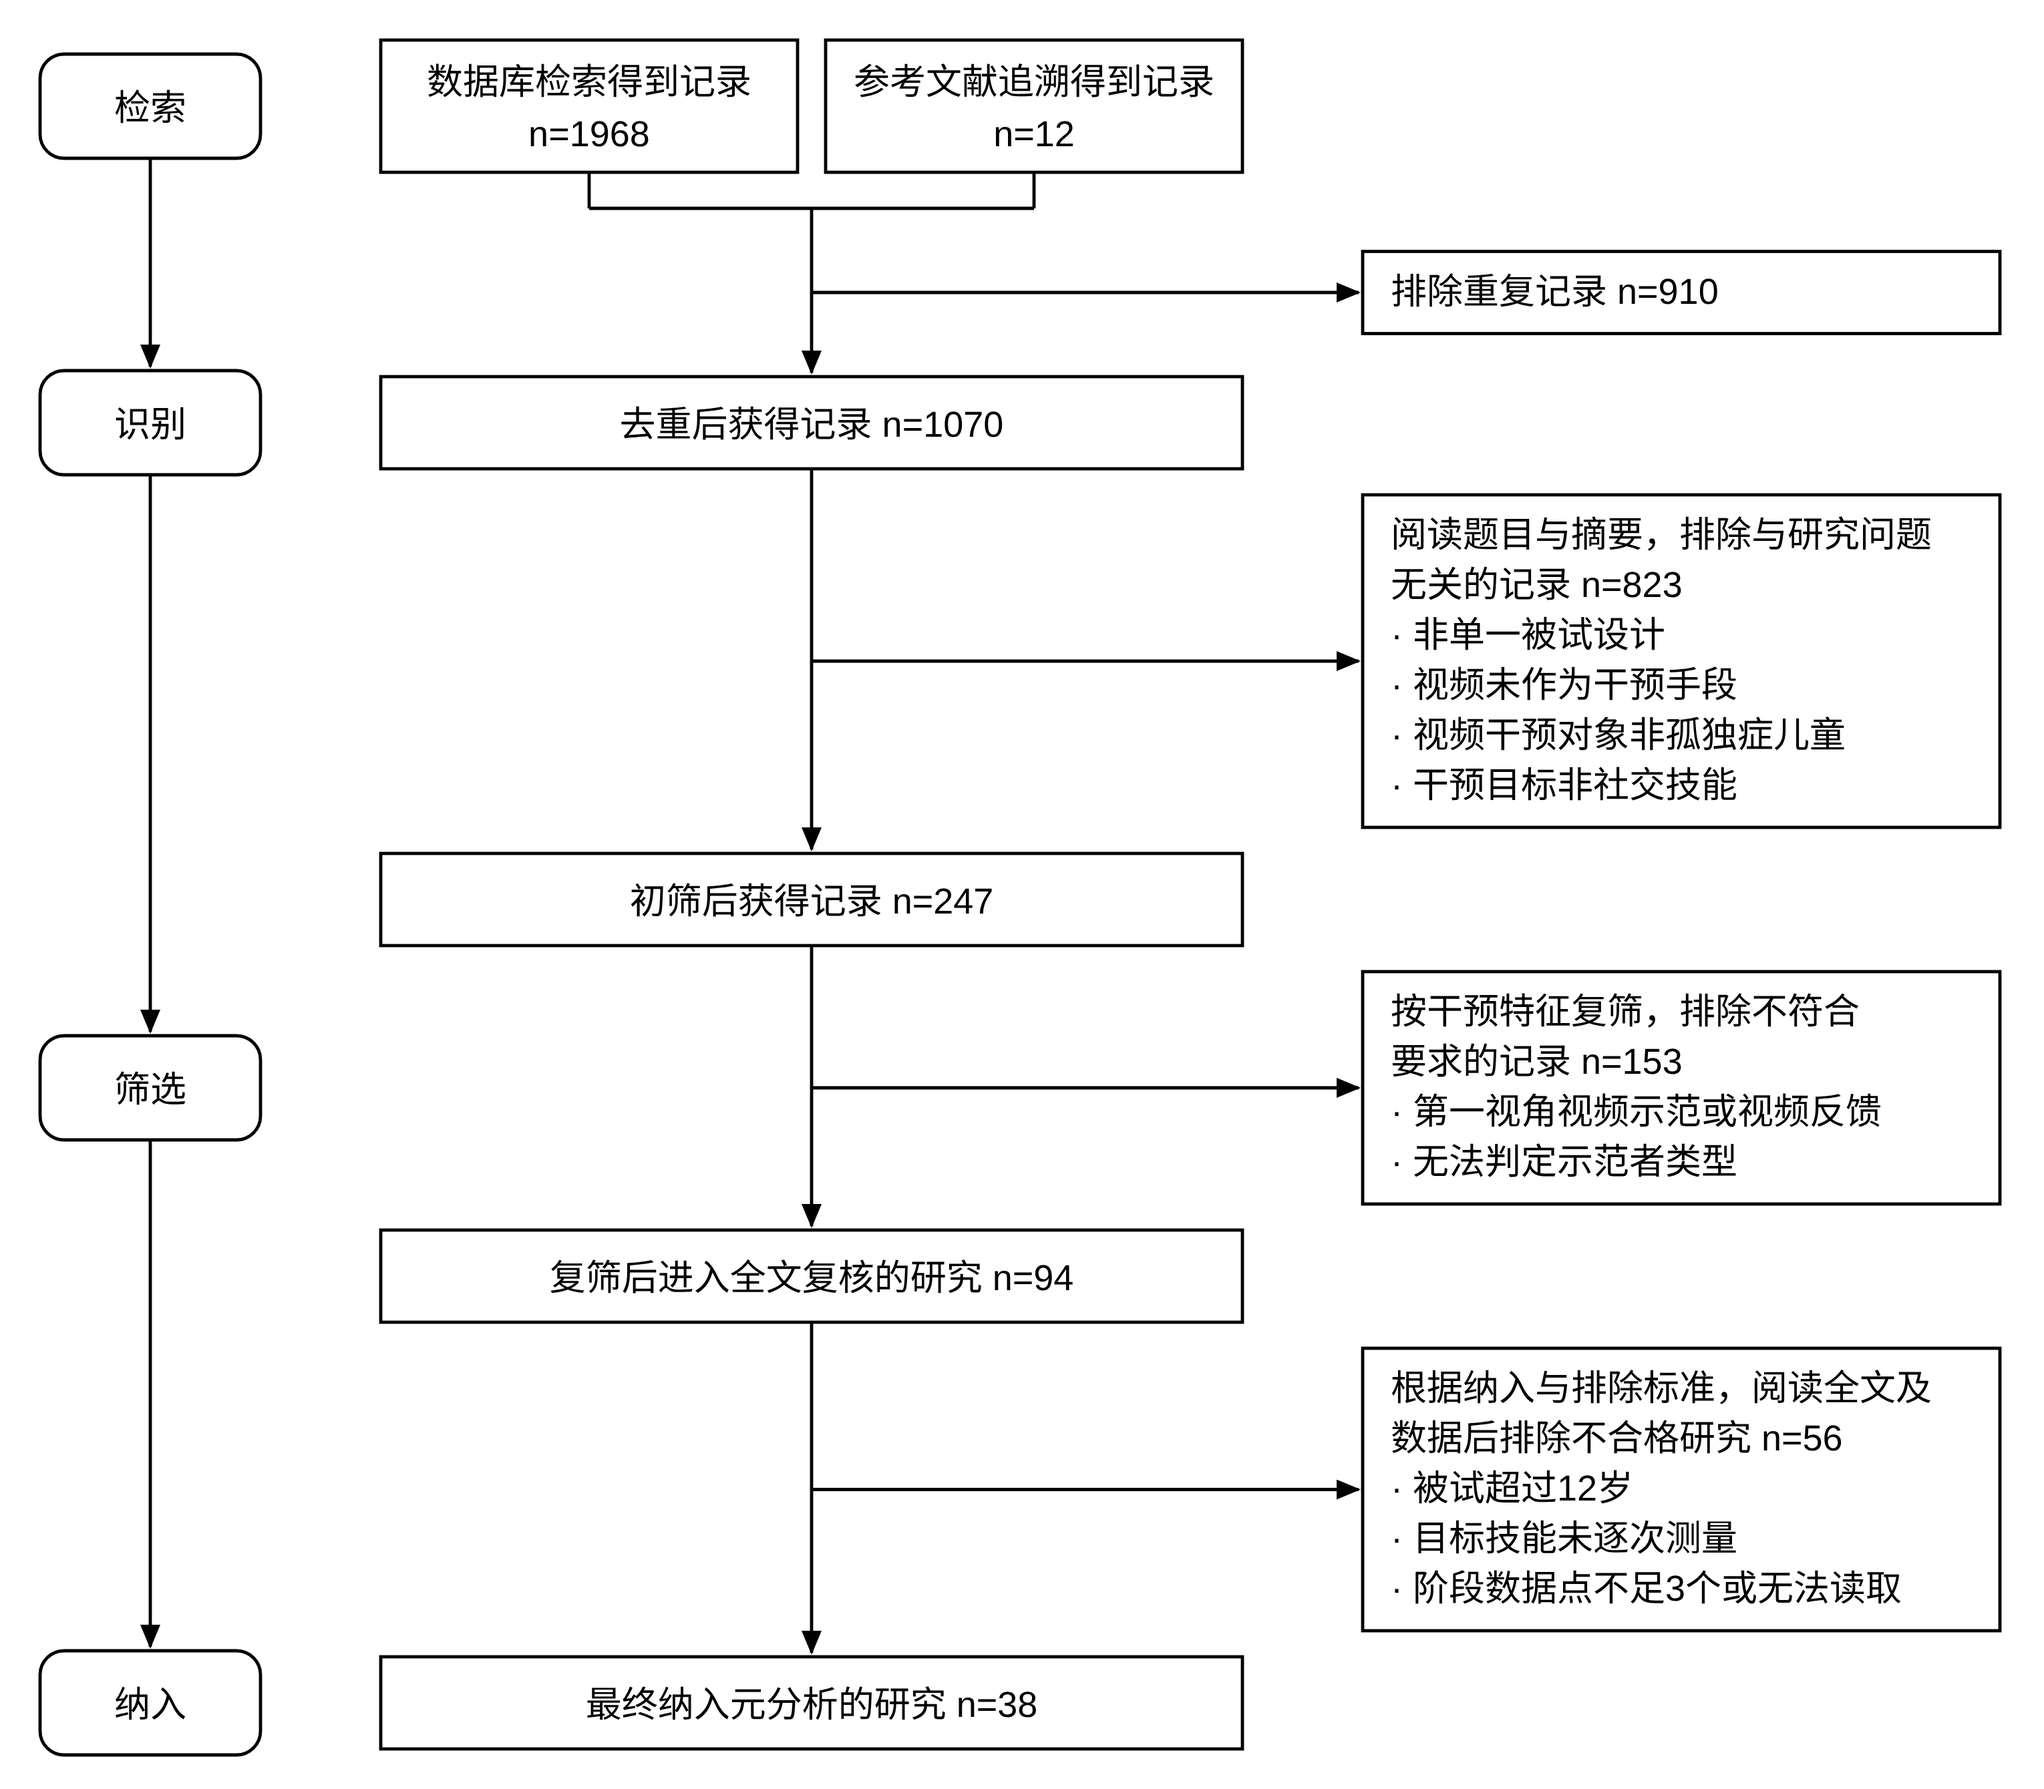
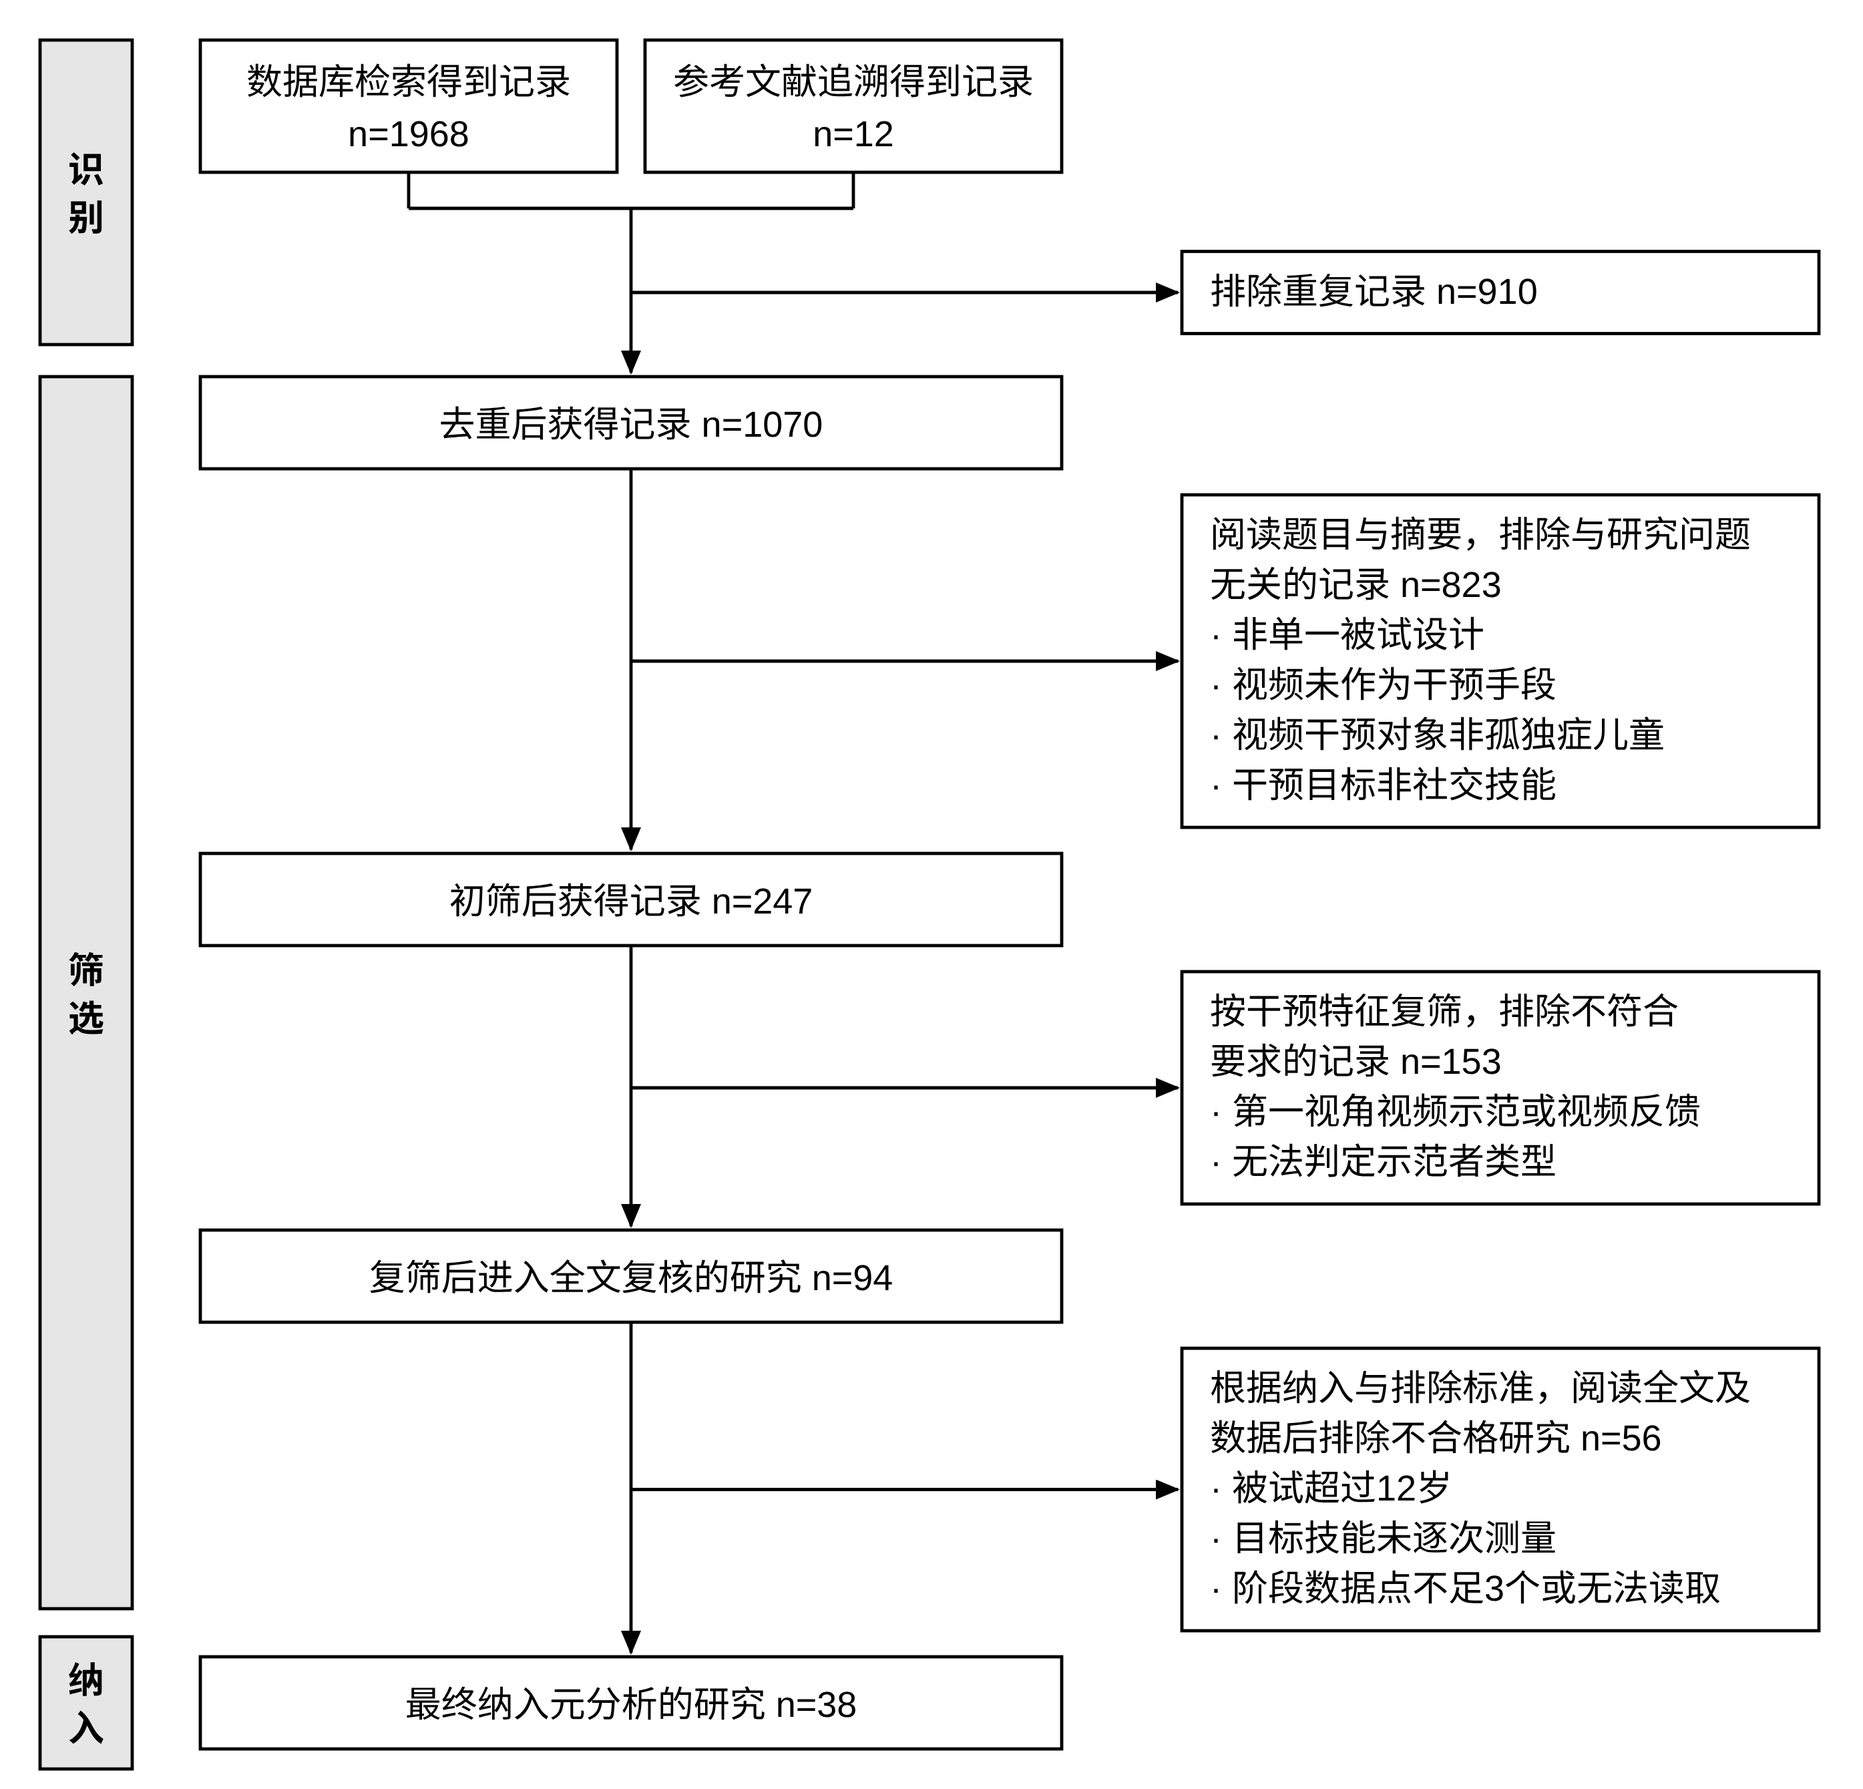
Use gray vertical stage bars on flowchart
Claude-Session: https://claude.ai/code/session_01EqCS8pdH5dXcLV7bqheSma

diff --git a/文献筛选流程图/流程图.html b/文献筛选流程图/流程图.html
@@ -1,69 +1,69 @@
 <!doctype html>
 <html><head><meta charset="utf-8"><title>文献筛选流程图</title><style>body{margin:0;background:#fff}</style></head><body>
-<svg id="fig" width="1020" height="893" viewBox="0 0 1020 893" xmlns="http://www.w3.org/2000/svg">
+<svg id="fig" width="930" height="893" viewBox="0 0 930 893" xmlns="http://www.w3.org/2000/svg">
 <style>
   text{font-family:Arial,"Liberation Sans","SimHei","黑体","Microsoft YaHei","Noto Sans CJK SC",sans-serif;font-size:18px;fill:#000}
   .box{fill:#fff;stroke:#000;stroke-width:1.6}
+  rect.stage{fill:#e6e6e6;stroke:#000;stroke-width:1.6}
+  text.stage{font-weight:bold}
   .ln,.ln0{stroke:#000;stroke-width:1.6;fill:none}
   .ln{marker-end:url(#ar)}
 </style>
 <defs><marker id="ar" markerUnits="userSpaceOnUse" markerWidth="12" markerHeight="10" refX="11" refY="5" orient="auto"><path d="M0,0 L12,5 L0,10 z" fill="#000"/></marker></defs>
-<rect width="1020" height="893" fill="#fff"/>
-<rect class="box" x="190" y="20" width="208" height="66" rx="0"/>
-<text x="294.0" y="47" text-anchor="middle">数据库检索得到记录</text>
-<text x="294.0" y="73" text-anchor="middle">n=1968</text>
-<rect class="box" x="412" y="20" width="208" height="66" rx="0"/>
-<text x="516.0" y="47" text-anchor="middle">参考文献追溯得到记录</text>
-<text x="516.0" y="73" text-anchor="middle">n=12</text>
-<line class="ln0" x1="294.0" y1="86" x2="294.0" y2="104"/>
-<line class="ln0" x1="516.0" y1="86" x2="516.0" y2="104"/>
-<line class="ln0" x1="294.0" y1="104" x2="516.0" y2="104"/>
-<line class="ln" x1="405.0" y1="104" x2="405.0" y2="186"/>
-<rect class="box" x="680" y="125.5" width="318" height="41" rx="0"/>
-<text x="694" y="151.5" text-anchor="start">排除重复记录 n=910</text>
-<line class="ln" x1="405.0" y1="146.0" x2="678" y2="146.0"/>
-<rect class="box" x="190" y="188" width="430" height="46" rx="0"/>
-<text x="405.0" y="218" text-anchor="middle">去重后获得记录 n=1070</text>
-<line class="ln" x1="405.0" y1="234" x2="405.0" y2="424"/>
-<rect class="box" x="680" y="247.0" width="318" height="166" rx="0"/>
-<text x="694" y="273.0" text-anchor="start">阅读题目与摘要，排除与研究问题</text>
-<text x="694" y="298.0" text-anchor="start">无关的记录 n=823</text>
-<text x="694" y="323.0" text-anchor="start">· 非单一被试设计</text>
-<text x="694" y="348.0" text-anchor="start">· 视频未作为干预手段</text>
-<text x="694" y="373.0" text-anchor="start">· 视频干预对象非孤独症儿童</text>
-<text x="694" y="398.0" text-anchor="start">· 干预目标非社交技能</text>
-<line class="ln" x1="405.0" y1="330.0" x2="678" y2="330.0"/>
-<rect class="box" x="190" y="426" width="430" height="46" rx="0"/>
-<text x="405.0" y="456" text-anchor="middle">初筛后获得记录 n=247</text>
-<line class="ln" x1="405.0" y1="472" x2="405.0" y2="612"/>
-<rect class="box" x="680" y="485.0" width="318" height="116" rx="0"/>
-<text x="694" y="511.0" text-anchor="start">按干预特征复筛，排除不符合</text>
-<text x="694" y="536.0" text-anchor="start">要求的记录 n=153</text>
-<text x="694" y="561.0" text-anchor="start">· 第一视角视频示范或视频反馈</text>
-<text x="694" y="586.0" text-anchor="start">· 无法判定示范者类型</text>
-<line class="ln" x1="405.0" y1="543.0" x2="678" y2="543.0"/>
-<rect class="box" x="190" y="614" width="430" height="46" rx="0"/>
-<text x="405.0" y="644" text-anchor="middle">复筛后进入全文复核的研究 n=94</text>
-<line class="ln" x1="405.0" y1="660" x2="405.0" y2="825"/>
-<rect class="box" x="680" y="673.0" width="318" height="141" rx="0"/>
-<text x="694" y="699.0" text-anchor="start">根据纳入与排除标准，阅读全文及</text>
-<text x="694" y="724.0" text-anchor="start">数据后排除不合格研究 n=56</text>
-<text x="694" y="749.0" text-anchor="start">· 被试超过12岁</text>
-<text x="694" y="774.0" text-anchor="start">· 目标技能未逐次测量</text>
-<text x="694" y="799.0" text-anchor="start">· 阶段数据点不足3个或无法读取</text>
-<line class="ln" x1="405.0" y1="743.5" x2="678" y2="743.5"/>
-<rect class="box" x="190" y="827" width="430" height="46" rx="0"/>
-<text x="405.0" y="857" text-anchor="middle">最终纳入元分析的研究 n=38</text>
-<rect class="box" x="20" y="27.0" width="110" height="52" rx="12"/>
-<text x="75.0" y="60.0" text-anchor="middle">检索</text>
-<line class="ln" x1="75.0" y1="79.0" x2="75.0" y2="183.0"/>
-<rect class="box" x="20" y="185.0" width="110" height="52" rx="12"/>
-<text x="75.0" y="218.0" text-anchor="middle">识别</text>
-<line class="ln" x1="75.0" y1="237.0" x2="75.0" y2="515.0"/>
-<rect class="box" x="20" y="517.0" width="110" height="52" rx="12"/>
-<text x="75.0" y="550.0" text-anchor="middle">筛选</text>
-<line class="ln" x1="75.0" y1="569.0" x2="75.0" y2="822.0"/>
-<rect class="box" x="20" y="824.0" width="110" height="52" rx="12"/>
-<text x="75.0" y="857.0" text-anchor="middle">纳入</text>
+<rect width="930" height="893" fill="#fff"/>
+<rect class="box" x="100" y="20" width="208" height="66" rx="0"/>
+<text x="204.0" y="47" text-anchor="middle">数据库检索得到记录</text>
+<text x="204.0" y="73" text-anchor="middle">n=1968</text>
+<rect class="box" x="322" y="20" width="208" height="66" rx="0"/>
+<text x="426.0" y="47" text-anchor="middle">参考文献追溯得到记录</text>
+<text x="426.0" y="73" text-anchor="middle">n=12</text>
+<line class="ln0" x1="204.0" y1="86" x2="204.0" y2="104"/>
+<line class="ln0" x1="426.0" y1="86" x2="426.0" y2="104"/>
+<line class="ln0" x1="204.0" y1="104" x2="426.0" y2="104"/>
+<line class="ln" x1="315.0" y1="104" x2="315.0" y2="186"/>
+<rect class="box" x="590" y="125.5" width="318" height="41" rx="0"/>
+<text x="604" y="151.5" text-anchor="start">排除重复记录 n=910</text>
+<line class="ln" x1="315.0" y1="146.0" x2="588" y2="146.0"/>
+<rect class="box" x="100" y="188" width="430" height="46" rx="0"/>
+<text x="315.0" y="218" text-anchor="middle">去重后获得记录 n=1070</text>
+<line class="ln" x1="315.0" y1="234" x2="315.0" y2="424"/>
+<rect class="box" x="590" y="247.0" width="318" height="166" rx="0"/>
+<text x="604" y="273.0" text-anchor="start">阅读题目与摘要，排除与研究问题</text>
+<text x="604" y="298.0" text-anchor="start">无关的记录 n=823</text>
+<text x="604" y="323.0" text-anchor="start">· 非单一被试设计</text>
+<text x="604" y="348.0" text-anchor="start">· 视频未作为干预手段</text>
+<text x="604" y="373.0" text-anchor="start">· 视频干预对象非孤独症儿童</text>
+<text x="604" y="398.0" text-anchor="start">· 干预目标非社交技能</text>
+<line class="ln" x1="315.0" y1="330.0" x2="588" y2="330.0"/>
+<rect class="box" x="100" y="426" width="430" height="46" rx="0"/>
+<text x="315.0" y="456" text-anchor="middle">初筛后获得记录 n=247</text>
+<line class="ln" x1="315.0" y1="472" x2="315.0" y2="612"/>
+<rect class="box" x="590" y="485.0" width="318" height="116" rx="0"/>
+<text x="604" y="511.0" text-anchor="start">按干预特征复筛，排除不符合</text>
+<text x="604" y="536.0" text-anchor="start">要求的记录 n=153</text>
+<text x="604" y="561.0" text-anchor="start">· 第一视角视频示范或视频反馈</text>
+<text x="604" y="586.0" text-anchor="start">· 无法判定示范者类型</text>
+<line class="ln" x1="315.0" y1="543.0" x2="588" y2="543.0"/>
+<rect class="box" x="100" y="614" width="430" height="46" rx="0"/>
+<text x="315.0" y="644" text-anchor="middle">复筛后进入全文复核的研究 n=94</text>
+<line class="ln" x1="315.0" y1="660" x2="315.0" y2="825"/>
+<rect class="box" x="590" y="673.0" width="318" height="141" rx="0"/>
+<text x="604" y="699.0" text-anchor="start">根据纳入与排除标准，阅读全文及</text>
+<text x="604" y="724.0" text-anchor="start">数据后排除不合格研究 n=56</text>
+<text x="604" y="749.0" text-anchor="start">· 被试超过12岁</text>
+<text x="604" y="774.0" text-anchor="start">· 目标技能未逐次测量</text>
+<text x="604" y="799.0" text-anchor="start">· 阶段数据点不足3个或无法读取</text>
+<line class="ln" x1="315.0" y1="743.5" x2="588" y2="743.5"/>
+<rect class="box" x="100" y="827" width="430" height="46" rx="0"/>
+<text x="315.0" y="857" text-anchor="middle">最终纳入元分析的研究 n=38</text>
+<rect class="stage" x="20" y="20" width="46" height="152.0"/>
+<text class="stage" x="43.0" y="91.0" text-anchor="middle">识</text>
+<text class="stage" x="43.0" y="115.0" text-anchor="middle">别</text>
+<rect class="stage" x="20" y="188.0" width="46" height="615.0"/>
+<text class="stage" x="43.0" y="490.5" text-anchor="middle">筛</text>
+<text class="stage" x="43.0" y="514.5" text-anchor="middle">选</text>
+<rect class="stage" x="20" y="817.0" width="46" height="66.0"/>
+<text class="stage" x="43.0" y="845.0" text-anchor="middle">纳</text>
+<text class="stage" x="43.0" y="869.0" text-anchor="middle">入</text>
 </svg>
 </body></html>
